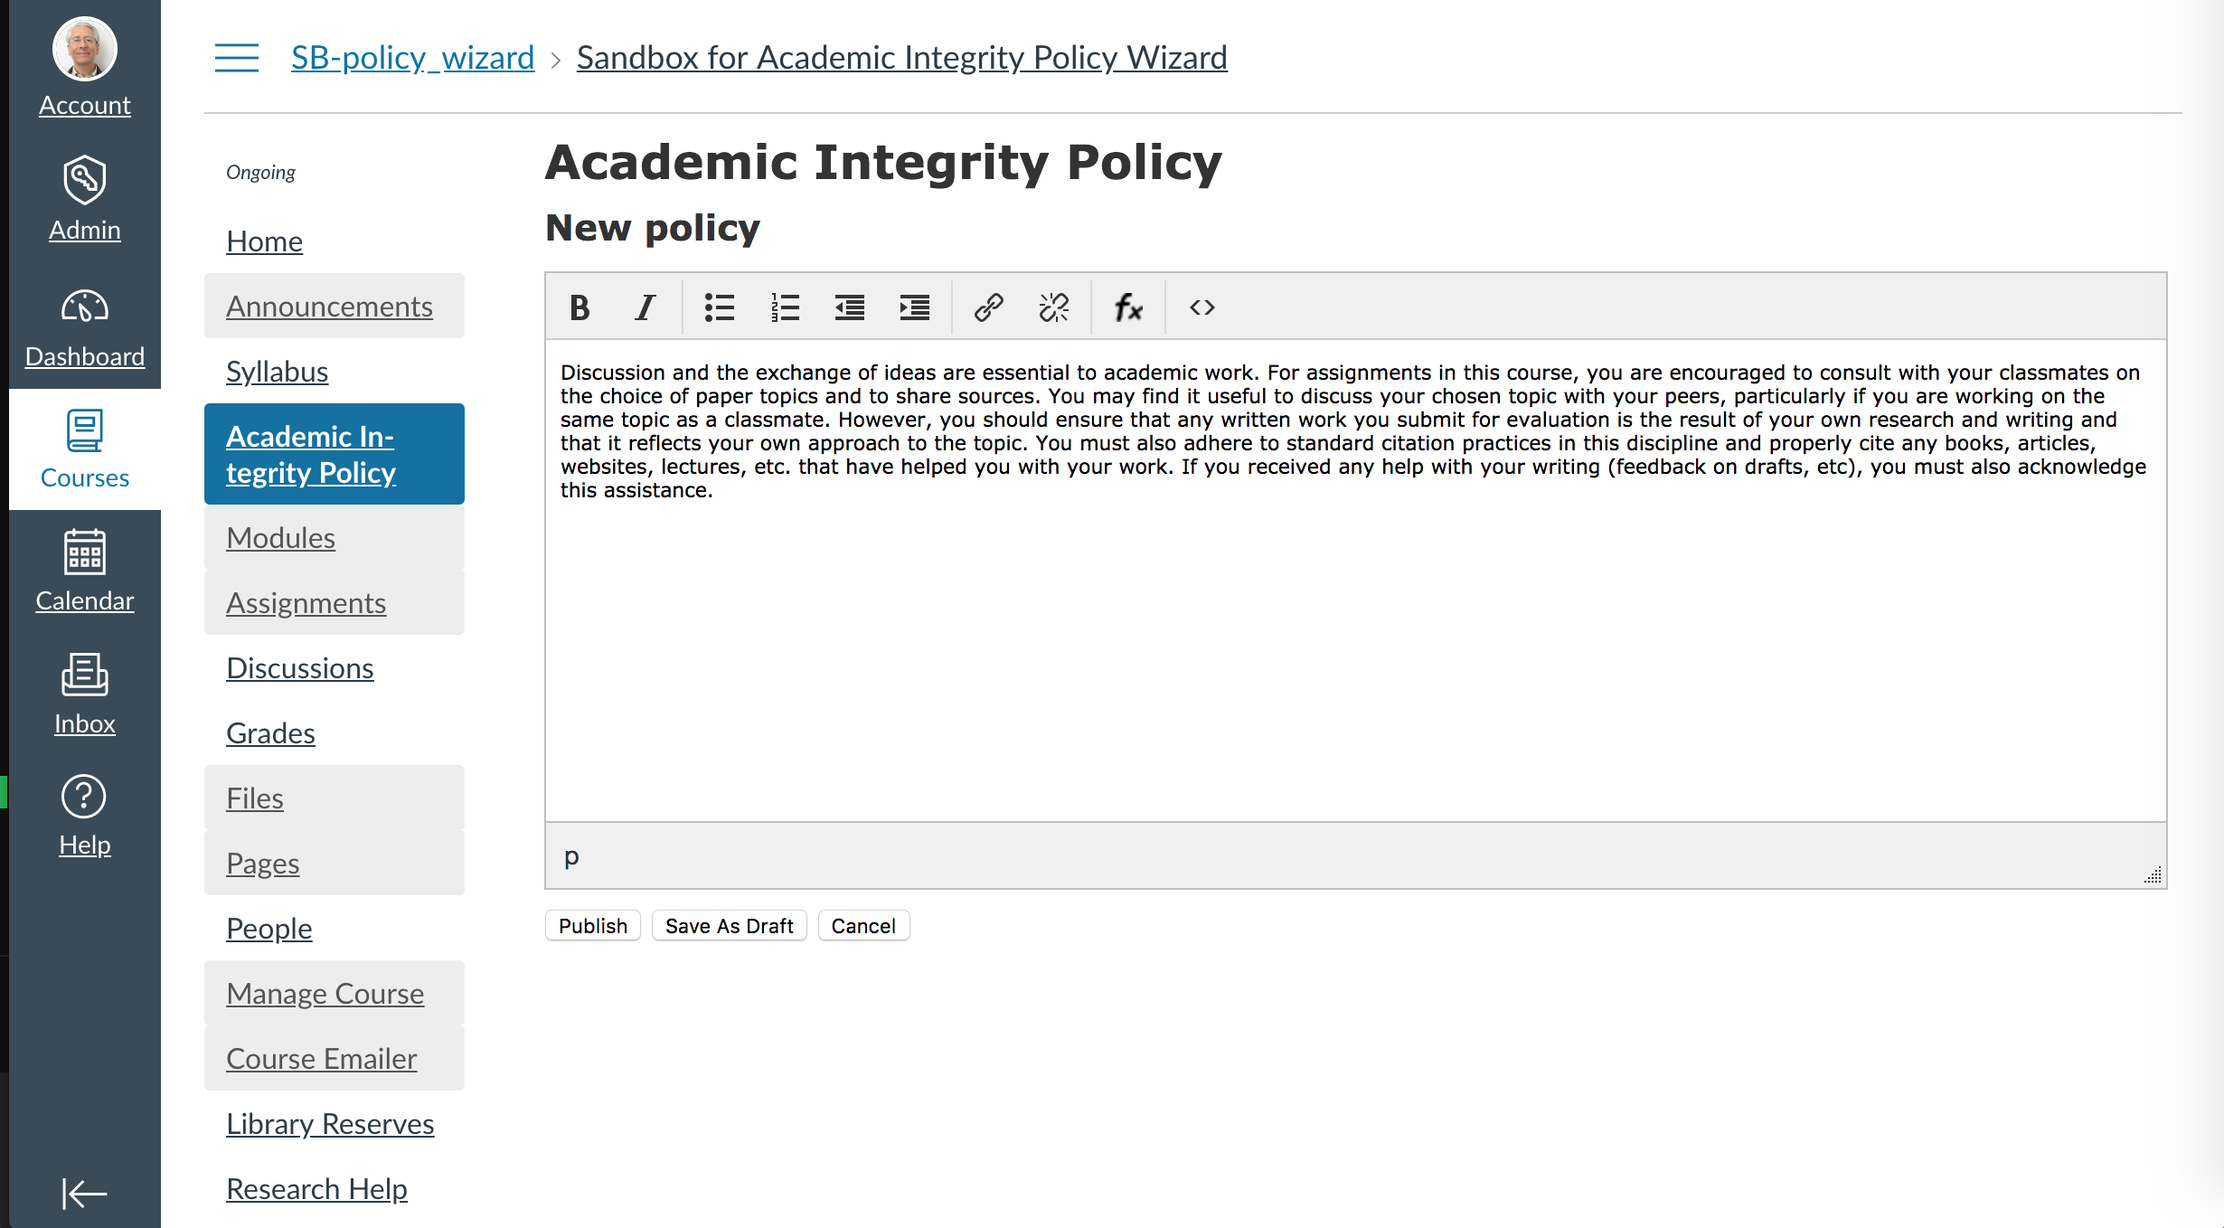
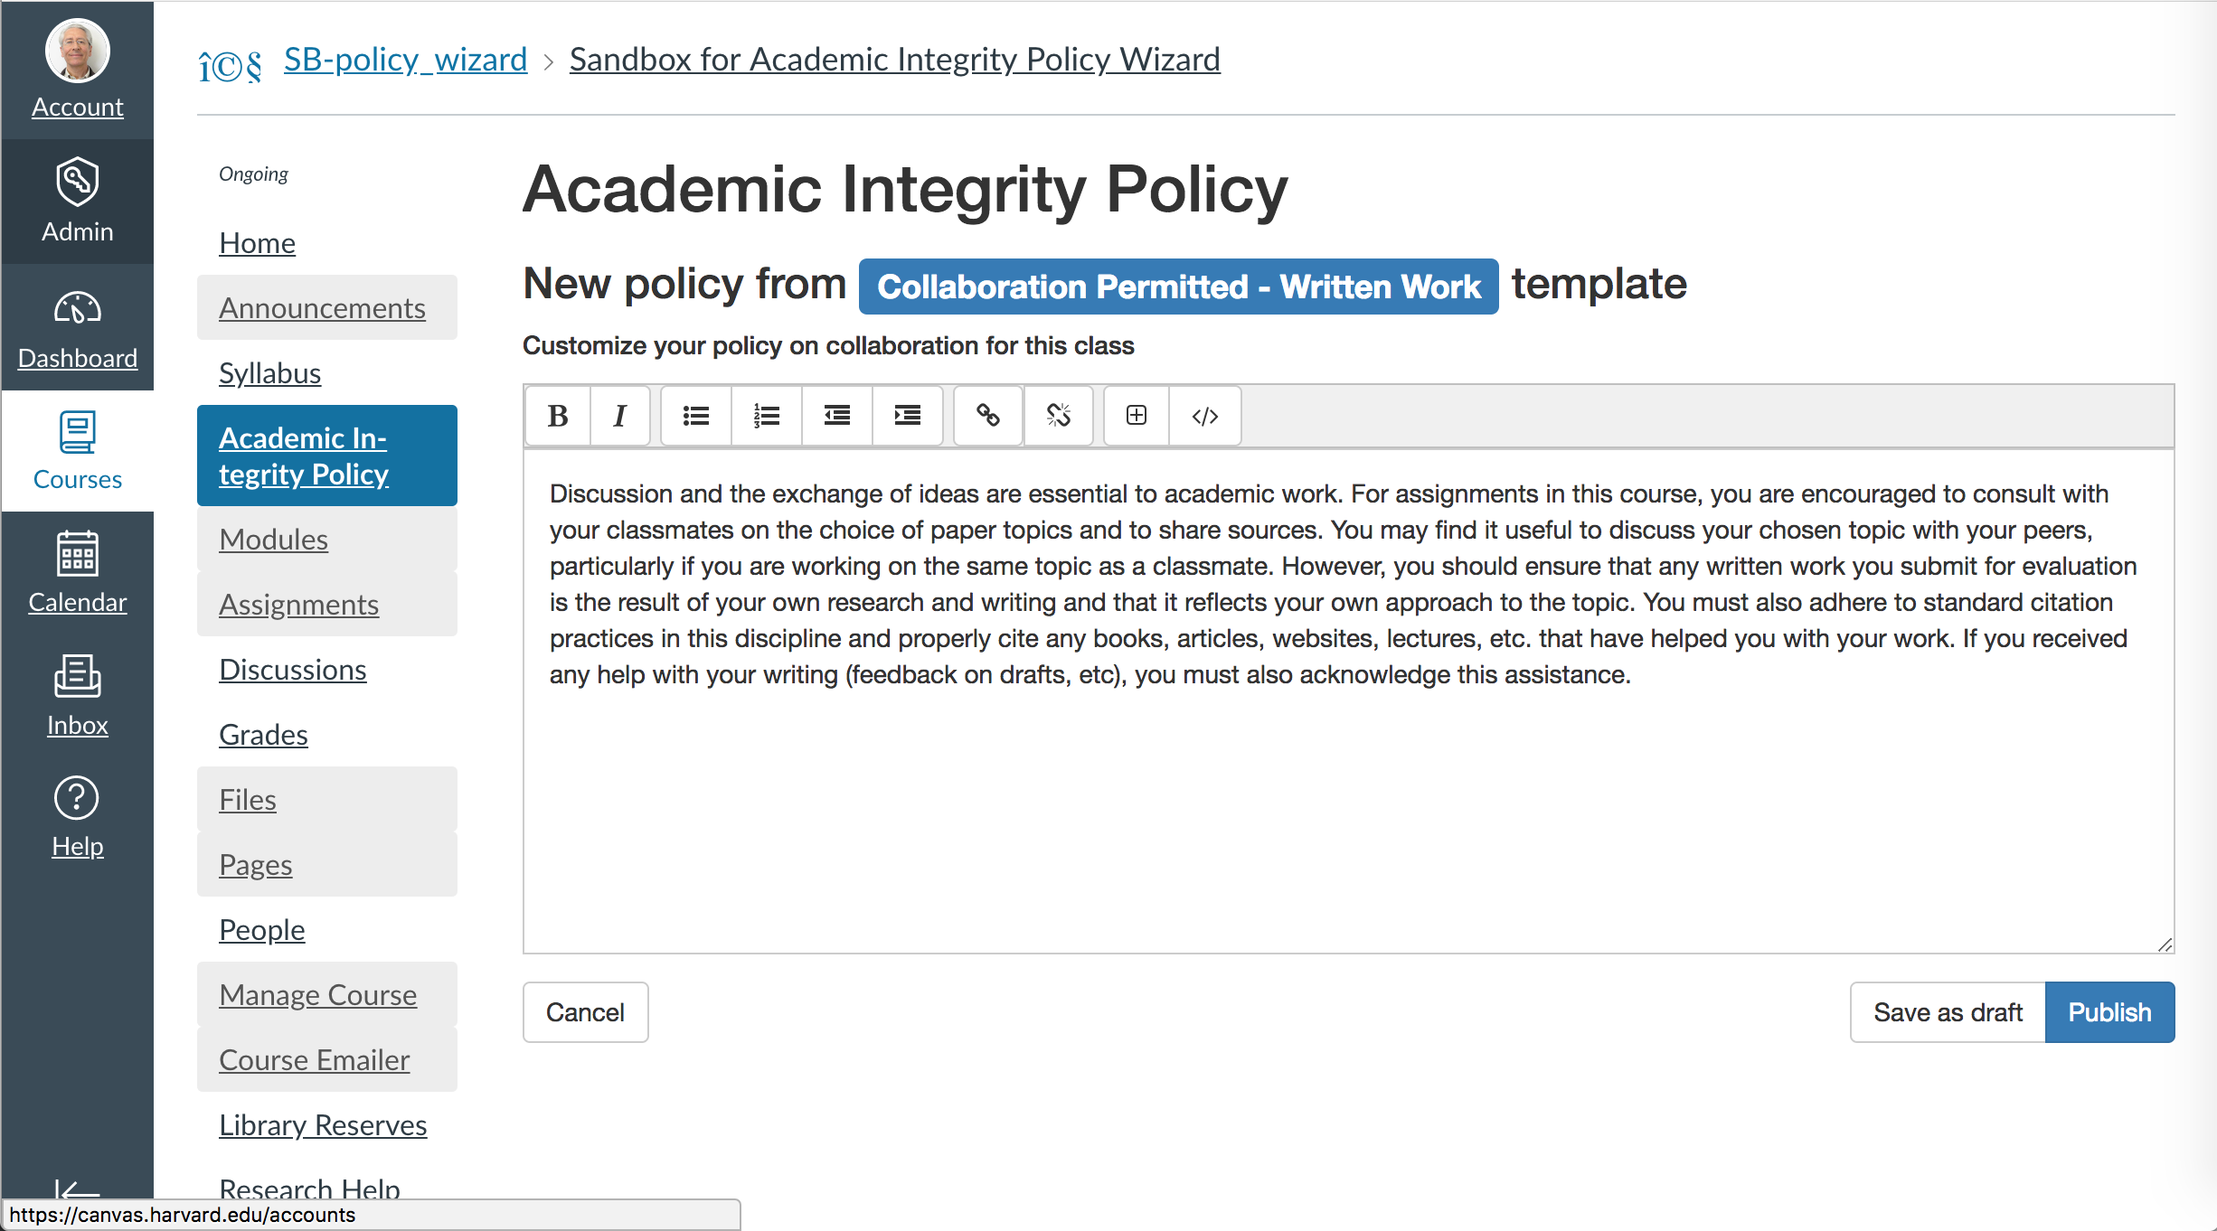
Add files via upload
Screen capture and UI code of proposed interface for editing templates

diff --git a/ui/AcademicIntegrityPolicy_edit/index.html b/ui/AcademicIntegrityPolicy_edit/index.html
@@ -1,7 +1,9 @@
-
+<!--There are 12 UI comments on this commit-->
 <html>
     <head>
         <title>Academic Integrity Policy</title>
+
+<!--UI comment #1 - I am leaving here the scripts and meta tags from Canvas. Aside from the Bootstrap and Fontawesome links I added, I am bnot sure we need these what I added-->
         <link data-turbolinks-track="true" href="/assets/application-f2426e026c85d83f4d4ec5be1c26ee81.css" media="all" rel="stylesheet">
         <script data-turbolinks-track="true" src="/assets/application-2671af1f4fe139755faa78265733f653.js"></script>
         <script src="/js/tinymce/tinymce.min.js" type="text/javascript"></script>
@@ -10,127 +12,126 @@
         <meta content="d0ccTyXMT8j2cAO95nISg+V5rFAEFJxqMA4Bt0J+zUA=" name="csrf-token">
         <link rel="stylesheet" type="text/css" href="https://latex.codecogs.com/css/equation-embed.css">
         <link rel="stylesheet" href="https://lti.acts.cloud.huit.harvard.edu/js/tinymce/skins/lightgray/skin.min.css">
+<!-- UI comment #2 - Font Awesome-->
+        <link href="https://maxcdn.bootstrapcdn.com/font-awesome/4.7.0/css/font-awesome.min.css" rel="stylesheet">
+<!-- UI comment #3 - Bootstrap core CSS. I also added Boostrap LS by the end of the body tag -->
+         <link href="https://maxcdn.bootstrapcdn.com/bootstrap/3.3.7/css/bootstrap.min.css" rel="stylesheet">
     </head>
     <body>
 
         <h1>Academic Integrity Policy</h1>
 
-        <h2>New policy</h2>
+<!--UI comment #4 - Adding a reference to the selected template. Changing h2 to h3-->
+        <h3>New policy from <span class="label label-primary">Collaboration Permitted - Written Work</span> template</h3>
+<!--UI comment #5 - Adding instructions with top margin-->
+        <h5 style="margin-top: 1em">Customize your policy on collaboration for this class</h5>
 
-
+<!--UI comment #6 - On the code below I removed what I didn't find useful but I left the form, ids and classes from the Canvas interface, although I don't think you need any of them.-->
         <form accept-charset="UTF-8" action="/policies" class="new_policy" id="new_policy" method="post">
             <div style="display:none">
                 <input name="utf8" type="hidden" value="✓">
                 <input name="authenticity_token" type="hidden" value="d0ccTyXMT8j2cAO95nISg+V5rFAEFJxqMA4Bt0J+zUA=">
             </div>
+<!--UI comment # 7- Adding top margin to allow for white space-->
+            <div class="field" style="margin-top: 1em;">
 
-            <div class="field">
+
+
                 <div id="mceu_10" class="mce-tinymce mce-container mce-panel" hidefocus="1" tabindex="-1" role="application" style="visibility: hidden; border-width: 1px;">
                     <div id="mceu_10-body" class="mce-container-body mce-stack-layout">
-                        <div id="mceu_11" class="mce-toolbar-grp mce-container mce-panel mce-stack-layout-item mce-first" hidefocus="1" tabindex="-1" role="group">
-                            <div id="mceu_11-body" class="mce-container-body mce-stack-layout">
-                                <div id="mceu_12" class="mce-container mce-toolbar mce-stack-layout-item mce-first mce-last" role="toolbar">
-                                    <div id="mceu_12-body" class="mce-container-body mce-flow-layout">
-                                        <div id="mceu_13" class="mce-container mce-flow-layout-item mce-first mce-btn-group" role="group">
-                                            <div id="mceu_13-body">
-                                                <div id="mceu_0" class="mce-widget mce-btn mce-first" tabindex="-1" aria-labelledby="mceu_0" role="button" aria-label="Bold">
-                                                    <button role="presentation" type="button" tabindex="-1">
-                                                        <i class="mce-ico mce-i-bold"></i>
-                                                    </button>
-                                                </div>
-                                                <div id="mceu_1" class="mce-widget mce-btn mce-last" tabindex="-1" aria-labelledby="mceu_1" role="button" aria-label="Italic">
-                                                    <button role="presentation" type="button" tabindex="-1">
-                                                        <i class="mce-ico mce-i-italic"></i>
-                                                    </button>
-                                                </div>
-                                            </div>
-                                        </div>
-                                        <div id="mceu_14" class="mce-container mce-flow-layout-item mce-btn-group" role="group">
-                                            <div id="mceu_14-body">
-                                                <div id="mceu_2" class="mce-widget mce-btn mce-first" tabindex="-1" aria-labelledby="mceu_2" role="button" aria-label="Bullet list">
-                                                    <button role="presentation" type="button" tabindex="-1">
-                                                        <i class="mce-ico mce-i-bullist"></i>
-                                                    </button>
-                                                </div>
-                                                <div id="mceu_3" class="mce-widget mce-btn" tabindex="-1" aria-labelledby="mceu_3" role="button" aria-label="Numbered list">
-                                                    <button role="presentation" type="button" tabindex="-1">
-                                                        <i class="mce-ico mce-i-numlist"></i>
-                                                    </button>
-                                                </div>
-                                                <div id="mceu_4" class="mce-widget mce-btn" tabindex="-1" aria-labelledby="mceu_4" role="button" aria-label="Decrease indent">
-                                                    <button role="presentation" type="button" tabindex="-1">
-                                                        <i class="mce-ico mce-i-outdent"></i>
-                                                    </button>
-                                                </div>
-                                                <div id="mceu_5" class="mce-widget mce-btn mce-last" tabindex="-1" aria-labelledby="mceu_5" role="button" aria-label="Increase indent">
-                                                    <button role="presentation" type="button" tabindex="-1">
-                                                        <i class="mce-ico mce-i-indent"></i>
-                                                    </button>
-                                                </div>
-                                            </div>
-                                        </div>
-                                        <div id="mceu_15" class="mce-container mce-flow-layout-item mce-btn-group" role="group">
-                                            <div id="mceu_15-body">
-                                                <div id="mceu_6" class="mce-widget mce-btn mce-first" tabindex="-1" aria-labelledby="mceu_6" role="button" aria-label="Insert/edit link">
-                                                    <button role="presentation" type="button" tabindex="-1">
-                                                        <i class="mce-ico mce-i-link"></i>
-                                                    </button>
-                                                </div>
-                                                <div id="mceu_7" class="mce-widget mce-btn mce-last" tabindex="-1" aria-labelledby="mceu_7" role="button" aria-label="Remove link">
-                                                    <button role="presentation" type="button" tabindex="-1">
-                                                        <i class="mce-ico mce-i-unlink"></i>
-                                                    </button>
-                                                </div>
-                                            </div>
-                                        </div>
-                                        <div id="mceu_16" class="mce-container mce-flow-layout-item mce-btn-group" role="group">
-                                            <div id="mceu_16-body">
-                                                <div id="mceu_8" class="mce-widget mce-btn mce-first mce-last" tabindex="-1" aria-labelledby="mceu_8" role="button" aria-label="Insert Equation">
-                                                    <button role="presentation" type="button" tabindex="-1">
-                                                        <i class="mce-ico mce-i-none" style="background-image: url('https://lti.acts.cloud.huit.harvard.edu/js/tinymce/plugins/eqneditor/img/eqneditor.png')"></i>
-                                                    </button>
-                                                </div>
-                                            </div>
-                                        </div>
-                                        <div id="mceu_17" class="mce-container mce-flow-layout-item mce-last mce-btn-group" role="group">
-                                            <div id="mceu_17-body">
-                                                <div id="mceu_9" class="mce-widget mce-btn mce-first mce-last" tabindex="-1" aria-labelledby="mceu_9" role="button" aria-label="Source code">
-                                                    <button role="presentation" type="button" tabindex="-1">
-                                                        <i class="mce-ico mce-i-code"></i>
-                                                    </button>
-                                                </div>
-                                            </div>
-                                            </div>
-                                        </div>
-                                </div>
+
+<!--UI comment #8 - replacing Canvas editing menu with Bootstrap's-->
+                        <div class="btn-toolbar" data-role="editor-toolbar" data-target="#editor">
+
+                            <div class="btn-group">
+                                <a class="btn btn-default" data-edit="bold" title="Bold (Ctrl/Cmd+B)">
+
+<!--UI comment # - Adding top margin to vertically center icons within each button-->
+                                    <i class="fa fa-bold" style="margin-top: .2em"></i>
+                                </a>
+                                <a class="btn btn-default" data-edit="italic" title="Italic (Ctrl/Cmd+I)">
+                                    <i class="fa fa-italic" style="margin-top: .2em"></i>
+                                </a>
                             </div>
-                        </div>
-                        <div id="mceu_18" class="mce-edit-area mce-container mce-panel mce-stack-layout-item" hidefocus="1" tabindex="-1" role="group" style="border-width: 1px 0px 0px;">
-                            <iframe id="myEditor_ifr" frameborder="0" allowtransparency="true" title="Rich Text Area. Press ALT-F9 for menu. Press ALT-F10 for toolbar. Press ALT-0 for help" src='javascript:""' style="width: 100%; height: 266px; display: block;"></iframe>
-                        </div>
-                        <div id="mceu_19" class="mce-statusbar mce-container mce-panel mce-stack-layout-item mce-last" hidefocus="1" tabindex="-1" role="group" style="border-width: 1px 0px 0px;">
-                            <div id="mceu_19-body" class="mce-container-body mce-flow-layout">
-                                <div id="mceu_20" class="mce-path mce-flow-layout-item mce-first">
-                                    <div role="button" class="mce-path-item mce-last" data-index="0" tabindex="-1" id="mceu_20-0" aria-level="0">
-                                        p
-                                    </div>
-                                </div>
-                                <div id="mceu_21" class="mce-flow-layout-item mce-last mce-resizehandle">
-                                    <i class="mce-ico mce-i-resize"></i>
-                                </div>
+                            <div class="btn-group">
+                                <a class="btn btn-default" data-edit="insertunorderedlist" title="Bullet list">
+                                    <i class="fa fa-list-ul" style="margin-top: .2em"></i>
+                                </a>
+                                <a class="btn btn-default" data-edit="insertorderedlist" title="Number list">
+                                    <i class="fa fa-list-ol" style="margin-top: .2em"></i>
+                                </a>
+                                <a class="btn btn-default" data-edit="outdent" title="Reduce indent (Shift+Tab)">
+                                    <i class="fa fa-outdent" style="margin-top: .2em"></i>
+                                </a>
+                                <a class="btn btn-default" data-edit="indent" title="Indent (Tab)">
+                                    <i class="fa fa-indent" style="margin-top: .2em"></i>
+                                </a>
                             </div>
+
+                            <div class="btn-group">
+                                <a class="btn btn-default dropdown-toggle" data-toggle="dropdown" title="Hyperlink">
+                                    <i class="fa fa-link" style="margin-top: .2em"></i>
+                                </a>
+                                <div class="dropdown-menu input-append">
+                                    <input class="span2" placeholder="URL" type="text" data-edit="createLink">
+                                    <button class="btn" type="button">Add</button>
+                                </div>
+                                <a class="btn btn-default" data-edit="unlink" title="Unlink">
+                                    <i class="fa fa-chain-broken" style="margin-top: .2em"></i>
+                                </a>
+                            </div>
+
+                            <div class="btn-group">
+                                <a class="btn btn-default" data-edit="insertEquation" title="Insert equation">
+                                    <i class="fa fa-plus-square-o" style="margin-top: .2em"></i>
+                                </a>
+                                <a class="btn btn-default" data-edit="code" title="Code">
+                                    <i class="fa fa-code" style="margin-top: .2em"></i>
+                                </a>
+                            </div>
+
                         </div>
                     </div>
                 </div>
-                <textarea cols="100" id="myEditor" name="policy[body]" rows="20" aria-hidden="true" style="display: none;">
+
+<!--UI comment #9 - Changing textarea cols and rows, adding styles for 100% width and padding-->
+                <textarea cols="127" id="myEditor" name="policy[body]" rows="15"
+                style="width: 100%;
+                margin: 0;
+                border: 1px;
+                border-style: solid;
+                border-width: 1px;
+                border-color: #ccc;
+                position: relative;
+                padding: 1em;
+                height: 20em;
+                -moz-box-sizing: border-box;
+                -webkit-box-sizing: border-box;
+                box-sizing: border-box;">
                     Discussion and the exchange of ideas are essential to academic work. For assignments in this course, you are encouraged to consult with your classmates on the choice of paper topics and to share sources. You may find it useful to discuss your chosen topic with your peers, particularly if you are working on the same topic as a classmate. However, you should ensure that any written work you submit for evaluation is the result of your own research and writing and that it reflects your own approach to the topic. You must also adhere to standard citation practices in this discipline and properly cite any books, articles, websites, lectures, etc. that have helped you with your work. If you received any help with your writing (feedback on drafts, etc), you must also acknowledge this assistance.
                 </textarea>
             </div>
             <input id="custom" name="custom" type="hidden" value="1">
             <div class="actions">
-                <input name="publish" type="submit" value="Publish">
-                <input name="draft" type="submit" value="Save As Draft">
-                <input name="cancel" type="submit" value="Cancel">
+
+<!--UI comment #11 - wrapping input buttons in Bootstrap button groups. Distancing Cancel button from Save draft ad Publish-->
+                <div class="btn-group pull-right" role="group" aria-label="...">
+                    <button type="submit" class="btn btn-default" name="draft" value="Save as draft">
+                        Save as draft
+                    </button>
+
+<!--UI comment #12 - Use Save instead of Publish button for administrator template editing interface-->
+                    <button type="submit" class="btn btn-primary hidden" name="save" value="Save template">
+                        Save template
+                    </button>
+
+                    <button type="submit" class="btn btn-primary" name="publish" value="Publish">
+                        Publish
+                    </button>
+                </div>
+                <button type="submit" class="btn btn-default" name="cancel" value="Publish">
+                    Cancel
+                </button>
             </div>
         </form>
 
